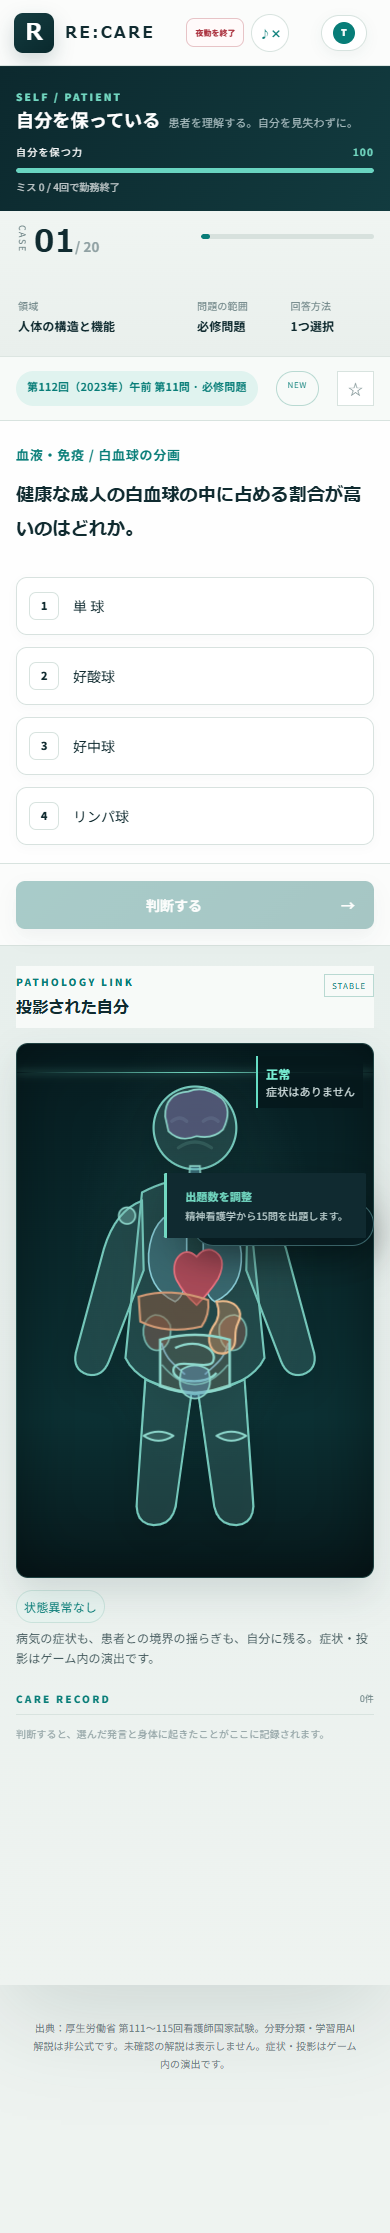
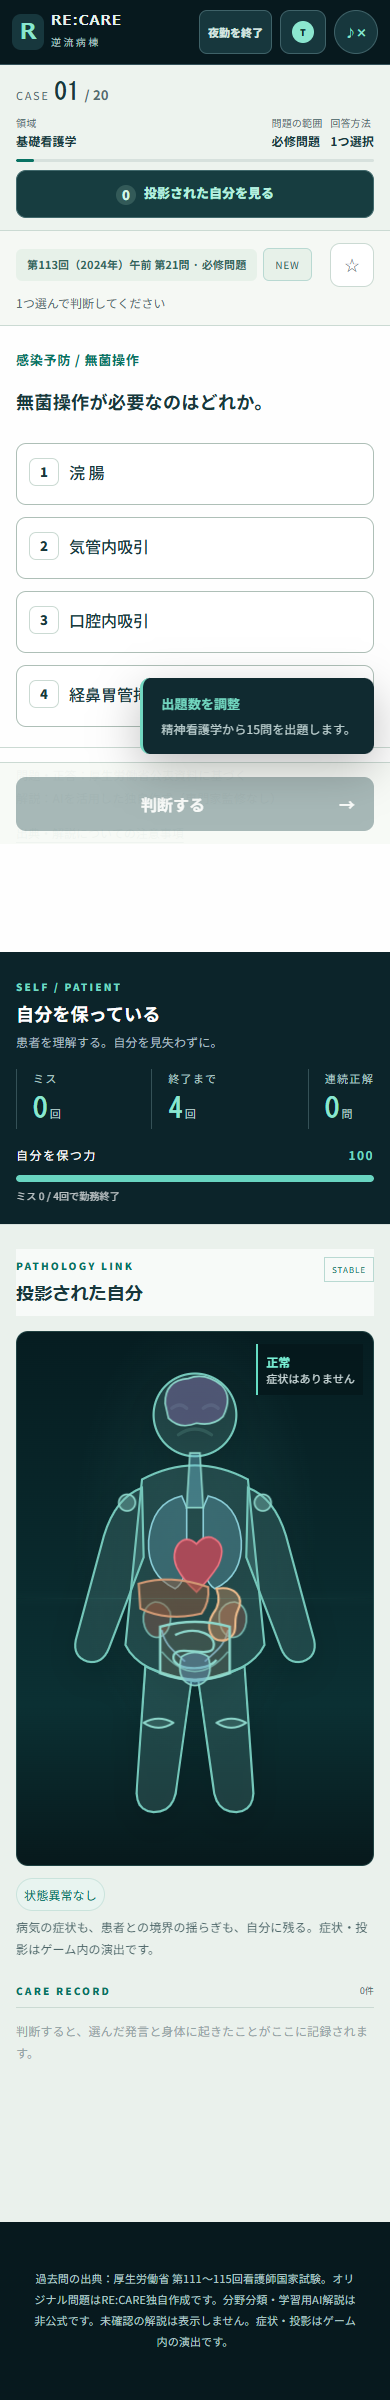
apd

diff --git a/ui-polish.css b/ui-polish.css
@@ -70,3 +70,61 @@ body:has(#titleScreen:not([hidden])) #anatomyJump,body:has(#authGate) #anatomyJu
 
 .case-context{margin:4px 0 24px;padding:18px 20px;border:1px solid #d6e4de;border-radius:12px;background:#f4f8f6}.case-context[hidden],.question-annotations[hidden]{display:none}.case-context section+section{margin-top:18px;padding-top:16px;border-top:1px solid #d6e4de}.case-context h2{font-size:12px;margin:0 0 8px;color:#16766d;letter-spacing:.05em}.case-context p{font-size:15px;font-weight:400;line-height:1.95;margin:0;white-space:pre-line;overflow-wrap:anywhere}.question-annotations{margin:12px 0 20px;font-size:12px;color:#53716c}.question-annotations summary{cursor:pointer;min-height:32px;line-height:2}.question-annotations p{line-height:1.8;overflow-wrap:anywhere}.question-body h1{white-space:pre-line}
 @media(max-width:760px){.case-context{padding:16px;margin-bottom:20px}.case-context p{font-size:14px}.question-body h1{font-size:18px}}
+
+/* v76: shared product tokens. Dark ward chrome with a quiet reading surface. */
+:root{--background:#07191e;--surface:#102c32;--text:#e6f2ee;--muted:#536c70;--accent:#8be6cf;--danger:#ae3044;--success:#087263;--ink:#19383c;--paper:#f2f6f3;--teal:#087263;--line:#cbdad3;--radius:14px;--radius-sm:10px;--shadow:0 16px 48px #0002;--ui-focus:#087263}
+html,body{background:var(--background)}body{font-size:15px;line-height:1.7}.noise{display:none}
+[hidden]{display:none!important}button{touch-action:manipulation;box-shadow:none;transition:background .18s,border-color .18s,transform .18s}button:disabled{cursor:not-allowed}a{ text-underline-offset:4px}button,input,select,textarea{font-family:inherit}p,h1,h2,h3,dd,summary{overflow-wrap:anywhere}
+:focus-visible{outline:3px solid var(--ui-focus);outline-offset:3px}input,select,textarea{font-size:16px!important;border-radius:10px}button,a,summary{scroll-margin-block:100px}
+.primary-btn,.secondary-btn,.battle-primary,.battle-quiet,.auth-submit{border-radius:10px;min-height:48px;font-size:14px}.primary-btn,.battle-primary{background:#123c40;color:#fff;box-shadow:none}.primary-btn:hover,.battle-primary:hover{background:#086b61}
+/* Title: logo and launch take priority; existing settings live in one disclosure. */
+.title-screen{min-height:100svh;background:radial-gradient(ellipse at 85% 25%,#163e43,transparent 55%),var(--background)!important}
+.title-top,.title-footer{width:min(1180px,100%);margin-inline:auto;color:#a6c0be;font-size:11px;line-height:1.8;letter-spacing:.06em;border-color:#345159}
+.title-content{max-width:1180px;gap:64px;padding:56px 0 44px;grid-template-columns:minmax(0,1.12fr) minmax(0,.88fr)}
+.title-copy h1{font-size:clamp(78px,9vw,124px);line-height:1;letter-spacing:-.065em;margin:20px 0 0;text-shadow:none}.title-copy h1 span{color:var(--accent)}
+.title-kicker{font-size:12px;letter-spacing:.1em;color:var(--accent)}.title-jp{font-size:21px;margin:10px 0 24px}.title-lead{font-size:15px;line-height:1.95;color:#b1c9c6}.welcome-user{font-size:12px;color:#b1c9c6}
+.title-actions{margin:20px 0;gap:10px}.start-btn{min-height:70px;background:var(--accent);border-radius:10px;color:#092d2a;font-size:18px;box-shadow:none;padding:16px 22px}.start-btn small{font-size:11px}.start-btn:hover{background:#aaf2df;box-shadow:0 4px 20px #8be6cf20}.how-btn,.title-ranking-btn{border-color:#3f6268;background:#102c32;backdrop-filter:none;color:#d4e6e0}
+.shift-setup{border:1px solid #3f6268;border-radius:14px;background:#0c242a;margin:24px 0 0;overflow:hidden}.shift-setup>summary{display:flex;align-items:center;justify-content:space-between;gap:12px;padding:16px 18px;min-height:68px;list-style:none;cursor:pointer}.shift-setup>summary::-webkit-details-marker{display:none}.shift-setup>summary:after{content:'＋';color:var(--accent);font-size:24px}.shift-setup[open]>summary:after{content:'−'}.shift-setup>summary b{display:block;font-size:14px;color:#e6f2ee}#setupSummary{display:block;font-size:12px;line-height:1.8;color:#b1c9c6;margin-top:2px}.shift-setup-content{padding:0 18px 18px;border-top:1px solid #3f6268}.setup-label{font-size:13px;color:#d4e6e0;margin:18px 0 8px}
+.question-source{border:0;padding:0;min-width:0}.question-source legend{font-size:13px;color:#d4e6e0}.question-source-options{grid-template-columns:repeat(2,minmax(0,1fr))}.question-source-options label{border-radius:10px;border-color:#3f6268;min-width:0}.question-source-options b{font-size:13px}.question-source-options small,#questionSourceNotice,.year-publication-note{font-size:12px;color:#b1c9c6;line-height:1.85}
+.premium-setup{margin:10px 0 16px;grid-template-columns:repeat(3,minmax(0,1fr))}.mode-card{min-height:100px;padding:14px 10px;background:#102c32;border-color:#3f6268;box-shadow:none;backdrop-filter:none}.mode-card b{font-size:13px}.mode-card small{font-size:12px;color:#b1c9c6}.mode-card em{display:block;font-size:11px;color:#b1c9c6;font-style:normal;margin-top:8px}.mode-card.active{border-color:var(--accent);background:#1b423e;box-shadow:inset 0 3px var(--accent)}.mode-card:hover{transform:none;box-shadow:none}.mode-card.active small{color:#e1f1eb}
+.category-picker{display:grid;grid-template-columns:90px minmax(0,1fr);padding:8px 0;margin:0;gap:12px;border:0;background:none;font-size:13px;letter-spacing:0;color:#b1c9c6}.category-picker select{max-width:none;width:100%;min-height:48px;border-color:#3f6268}
+.title-metric{min-width:0}.title-metric span{color:#b1c9c6;font-size:11px}.title-metric b{font-size:22px}.last-result{flex-wrap:wrap;gap:4px 12px;font-size:12px;color:#a6c0be}.last-result b{color:#b1c9c6}
+.title-support{padding:0}.title-support .title-visual{height:360px;filter:none}.title-body{height:295px;animation:none;filter:none}.orbit{animation:none}.orbit-a{width:300px;height:300px}.orbit-b{width:350px;height:210px}.title-diagnostic{font-size:10px;color:#b1c9c6;box-shadow:none;backdrop-filter:none}.title-body .title-heart{animation:titleHeartbeat 3s ease-in-out infinite}
+.title-grid{opacity:.06;background-size:64px 64px;pointer-events:none}.title-glow{width:520px;height:520px;filter:none;pointer-events:none;animation:ward-breathe 14s ease-in-out infinite}@keyframes ward-breathe{50%{transform:translate(-25px,20px);opacity:.3}}
+.daily-challenge,.battle-launch,.official-pdf-library{background:#102c32;border:1px solid #3f6268;border-radius:14px;box-shadow:none;margin:16px 0 0;padding:20px}.daily-challenge h2,.battle-launch h2{font-size:20px;color:#e6f2ee;margin:0 0 8px}.daily-challenge p,.battle-launch p{font-size:13px;color:#b1c9c6;line-height:1.85}.daily-challenge button,.battle-launch button{min-height:48px;border:1px solid #638b89;background:#193b40;color:#aaf2df;border-radius:10px;font-size:14px;padding:12px}.battle-kicker{font-size:11px}.official-pdf-library summary{font-size:14px;min-height:44px}.official-pdf-library summary span,.official-pdf-library p,.official-pdf-year h3{font-size:12px;color:#b1c9c6}.official-pdf-year a{min-height:44px;font-size:12px}.install-btn{position:relative;bottom:auto;right:auto;align-self:center;min-height:44px;margin:0 0 20px;font-size:12px}
+/* Game: a single reading column, case progress above, monitor alongside. */
+.app-shell{width:min(1320px,calc(100% - 40px));margin:20px auto;border:1px solid #3f6268;border-radius:16px;overflow:visible;box-shadow:none;background:#f2f6f3}.topbar{min-height:70px;height:auto;padding:12px 24px;gap:12px;background:var(--background);color:#e6f2ee;border-color:#345159;border-radius:16px 16px 0 0}.brand,.shift b{color:#e6f2ee}.brand small,.shift{color:#b1c9c6}.brand-mark{color:var(--accent);background:#17373d;box-shadow:none}.account-chip{min-height:44px;border-radius:10px;margin:0;background:#17373d;color:#e6f2ee;border-color:#3f6268;box-shadow:none}.account-chip small{color:var(--accent);font-size:10px}.account-chip i{background:var(--accent);color:#092d2a}.icon-btn{min-width:44px;min-height:44px;flex-shrink:0;background:#17373d;color:var(--accent);border-color:#3f6268}.end-shift-btn{min-height:44px;font-size:12px;background:#17373d;color:#d4e6e0;border-color:#3f6268;margin:0}.premium-player{margin:0 0 0 auto}.xp-copy b{color:#d4e6e0}.level-orb{background:#17373d;color:var(--accent)}
+.game-grid{display:grid;grid-template-columns:minmax(0,1fr) 320px;grid-template-rows:auto 1fr;min-height:0}.side-panel{grid-column:1;grid-row:1;display:flex;flex-wrap:wrap;align-items:center;gap:12px 16px;padding:16px 24px;border:0;border-bottom:1px solid var(--line);background:#edf3ee}.side-panel>.eyebrow,.side-panel .streak-card{display:none}.side-panel .case-number{gap:5px;margin:0}.case-number span{writing-mode:horizontal-tb;font-size:11px;margin:0}.case-number strong{font:700 26px/1.2 monospace}.case-number small{font-size:13px;color:var(--muted)}.side-panel>.progress-track{order:4;flex-basis:100%;height:3px;margin:0}.side-panel .case-meta{display:flex;flex:1;gap:14px;margin:0;min-width:0}.side-panel .case-meta div{padding:0;border:0;min-width:0}.case-meta dt{font-size:11px}.case-meta dd{font-size:12px;line-height:1.65}.side-panel .text-btn{min-height:44px;margin:0;font-size:12px;padding:8px}
+.question-panel{grid-column:1;grid-row:2;border-radius:0 0 0 16px;scroll-margin-top:12px}.question-head{background:#f5f8f4;padding:14px 24px;align-items:center}.source-badge,.mastery-tag{font-size:11px;border-radius:6px;color:#32665c;background:#e7f1e9}.instruction{font-size:12px;letter-spacing:0}.bookmark-btn{margin-left:auto;min-width:44px;min-height:44px;border-radius:10px}.question-body{padding:28px 32px 24px}.question-body h1{font:700 21px/1.95 'Noto Sans JP',sans-serif;letter-spacing:.02em;margin:0 0 26px}.question-body .lead{font-size:13px;line-height:1.85}.lead:empty{display:none}.case-context{border-left:3px solid #609a8d;background:#f1f6ef}.case-context p{font-size:16px;line-height:1.95}.case-context h2{font-size:13px}.question-annotations{font-size:13px}.question-annotations summary{min-height:44px}
+.choice,.battle-choice{align-items:flex-start;gap:12px;min-height:64px;padding:16px;border:1px solid #aebfb7;border-radius:10px;font:500 16px/1.85 'Noto Sans JP',sans-serif;box-shadow:none;transform:none}.choice>span:last-child,.battle-choice>span:last-child{min-width:0;flex:1;overflow-wrap:anywhere;white-space:pre-line}.choice-index{margin:0;width:30px;height:30px;font-size:13px;flex-shrink:0}.choice.selected{background:#e3f3eb;border-color:#087263;box-shadow:inset 3px 0 #087263}.choice.correct{background:#e1f4e8;border-color:#087263}.choice.wrong{background:#fff0f2;border-color:#ae3044}.choice:disabled{opacity:1}.choice:disabled:not(.correct):not(.wrong){color:#526961;background:#f2f5f1}.choice-state{display:block;font-size:12px;font-weight:700;color:#087263;margin-bottom:4px}.choice.wrong .choice-state{color:#ae3044}.choice.correct.wrong{background:#e1f4e8;border-color:#087263}.choice.correct.wrong .choice-state{color:#087263}.choice:hover,.choice:disabled:hover{transform:none;box-shadow:none}@media(hover:hover){.choice:not(:disabled):hover{border-color:#087263;background:#eef8f1}}
+.action-row{position:sticky;bottom:0;z-index:6;gap:12px;padding:16px 24px max(16px,env(safe-area-inset-bottom));border-top:1px solid var(--line);background:#f7faf6f5;border-radius:0 0 0 16px}.action-row .primary-btn{min-height:52px;min-width:180px;margin-left:auto}.action-row>span{font-size:11px}
+.feedback{grid-template-columns:32px minmax(0,1fr);gap:12px;padding:20px;margin:4px 24px 24px;box-shadow:none;scroll-margin-block:20px}.feedback-icon{width:32px;height:32px;box-shadow:none}.feedback h2{font-size:19px;line-height:1.65}.feedback p{font-size:15px;line-height:1.95}.feedback-label{font-size:11px!important}.consequence{font-size:13px;line-height:1.85;padding:12px;border-radius:8px}#choiceNotes{display:grid;gap:12px;padding-top:8px}#detailBox>summary{font-size:15px;min-height:48px}.choice-rationale,.choice-rationale:first-child,.choice-rationale:last-child{border:1px solid var(--line);border-radius:10px;padding:18px;background:#fff}.choice-rationale.is-correct{background:#edf7ee;border-color:#8ab6a1}.choice-rationale header{font-size:14px;align-items:flex-start}.choice-rationale header b{flex:1;min-width:0}.choice-rationale header i{flex-shrink:0}.choice-rationale header span{flex-basis:100%;font-size:12px;background:none;color:var(--muted)}.choice-rationale p{font-size:15px;line-height:2;margin:12px 0 0}.explanation-sources{font-size:12px;line-height:1.9}.learning-trust{padding:16px 24px;font-size:12px;line-height:1.9;color:var(--muted);border-top:1px solid var(--line)}.learning-trust p{margin:0}.trust-link,.report-link{min-height:44px;font-size:12px;cursor:pointer;background:none;border:0;color:#286c60;text-decoration:underline;text-underline-offset:4px;padding:8px 0;text-align:left}
+.status-strip{padding:18px 24px;gap:24px;background:#0c242a;box-shadow:none}.condition-line{flex-wrap:wrap;gap:4px 12px}.condition-line strong{font-size:18px}.condition-line span,.health-wrap>div:first-child{font-size:12px}.vitals{gap:20px}.vitals span,.vitals small{font-size:11px;color:#b1c9c6}.vitals strong{font:700 27px/1.5 monospace;color:var(--accent);font-variant-numeric:tabular-nums}.health-track{height:7px}.health-wrap small{font-size:11px}.self-panel{grid-column:2;grid-row:1/3;display:block;padding:24px 18px;background:#eaf1ec;border-left:1px solid var(--line);border-radius:0 0 16px 0}.self-heading h2{font-size:18px}.avatar-stage{box-shadow:none}.clinical-card p,.record-item p,.record-entry,.disease-episodes p{font-size:13px;line-height:1.85}.simulator-note,.empty-record,.record-item small,.record-item b{font-size:12px;line-height:1.85}.symptom-chips span{font-size:12px}
+#anatomyJump{position:static;display:none;min-height:48px;width:100%;margin:0;border-radius:10px;background:#173d40;color:#b4efdf;border:1px solid #41696c;padding:10px 14px;box-shadow:none;font-size:13px}
+/* Short feedback only: no full-screen effect over study content. */
+.damage-impact{display:none}.danger-flash,.status-strip.vital-alarm{animation:monitor-feedback .5s ease-out 1}.feedback.show{animation:answer-feedback .35s ease-out}@keyframes monitor-feedback{50%{opacity:.65}}@keyframes answer-feedback{from{opacity:.25;transform:translateY(6px)}to{opacity:1;transform:none}}.scan-line{animation:none;opacity:.15}.pulse-dot{animation:none}body:has(.feedback:not(.show)) .avatar-stage *{animation-play-state:paused!important}body:has(#titleScreen[hidden]) .title-glow{animation-play-state:paused}
+/* Dialogs and secondary activities use the same rounded reading surfaces. */
+.result-modal,.report-modal,.mypage{background:#020e13dc;backdrop-filter:none;overscroll-behavior:contain}.result-modal{padding:16px;overflow:auto;align-items:safe center}.result-card{width:min(640px,100%);padding:30px;max-height:calc(100dvh - 32px);overflow-y:auto;border-radius:16px}.result-card h2{font-size:26px;line-height:1.55}.result-card p{font-size:14px;line-height:1.9}.result-summary{display:grid;grid-template-columns:repeat(3,minmax(0,1fr));gap:8px;margin:20px 0}.result-summary div{background:#edf4ee;border:1px solid var(--line);border-radius:10px;padding:14px 6px}.result-summary span{display:block;font-size:11px;color:var(--muted)}.result-summary b{display:block;font-size:22px;color:#087263}.result-stats{font-size:13px}.result-actions{display:grid;grid-template-columns:1fr 1fr;gap:10px;margin-top:24px}.result-actions #retryButton{grid-column:1/-1;grid-row:1}.result-actions button{min-height:52px;font-size:14px}.analytics h3{font-size:14px}.analytic-row{font-size:12px;grid-template-columns:minmax(0,1fr) 80px 36px}.report-card h2{padding-right:34px}.report-card label{font-size:14px}.report-question,.report-note,.report-status{font-size:12px;line-height:1.85}.how-panel h3{font-size:16px}.usage-notice p{font-size:15px;line-height:2}.how-panel>p:last-child{font-size:13px;line-height:1.9}.how-panel{z-index:190}.mypage-nav button{font-size:14px}.category-summary h4{font-size:14px}.category-score{font-size:13px;grid-template-columns:minmax(0,1fr) 110px 40px;line-height:1.8}.history-entry b{font-size:14px;line-height:1.85}.history-entry small,.history-entry time,.history-toolbar span{font-size:12px;line-height:1.8}.ranking-tabs,.admin-tabs{flex-wrap:wrap;overflow:visible}.account-form label{font-size:14px}.danger-zone p{font-size:13px;line-height:1.9}.auth-lead{font-size:14px}.auth-card label{font-size:13px}.auth-note,.auth-message{font-size:12px;line-height:1.85}.auth-note{color:#b1c9c6}.pin-wrap{grid-template-columns:minmax(0,1fr) auto}.battle-screen{background:#edf3ee}.battle-question{font-size:21px;line-height:1.95}.battle-rules ul{font-size:14px;line-height:1.95}.battle-review article,.battle-history article{padding:16px;border:1px solid var(--line);background:white;border-radius:10px;margin-top:12px;font-size:15px;line-height:1.95}.battle-review summary{min-height:48px;font-size:15px}.battle-choice.is-correct>span:first-child:after{content:'○';color:#087263}.battle-choice.is-wrong>span:first-child:after{content:'×';color:#ae3044}.battle-choice.is-correct>span:first-child,.battle-choice.is-wrong>span:first-child{height:48px}.premium-toast,.network-toast{bottom:calc(90px + env(safe-area-inset-bottom));right:16px;max-width:calc(100vw - 32px);border-radius:10px;pointer-events:none}.premium-toast b{font-size:13px}.premium-toast span{font-size:12px}.legal-note{font-size:12px;color:#b1c9c6;line-height:1.9;margin:24px auto;padding-bottom:env(safe-area-inset-bottom)}
+@media(max-width:1100px){.title-content{gap:32px}.game-grid{grid-template-columns:minmax(0,1fr) 280px}.status-strip{gap:16px}.self-panel{padding:20px 14px}.question-body{padding:24px}.shift{display:none}.case-meta{flex-wrap:wrap}}
+@media(max-width:760px){
+ .title-screen{padding:0 max(16px,env(safe-area-inset-left))}.title-top{padding:12px 0}.title-content{padding:30px 0 28px}.title-copy h1{font-size:clamp(68px,19vw,100px);margin:16px 0 0}.title-kicker{font-size:10px;letter-spacing:.05em}.title-jp{font-size:18px;margin:10px 0 20px}.title-lead{font-size:14px;margin:12px 0}.title-support{display:block}.title-support .title-visual{display:none}.title-actions{margin:16px 0}.start-btn{min-height:66px;font-size:17px}.shift-setup{margin-top:20px}.shift-setup-content{padding:0 12px 14px}.shift-setup>summary{padding:14px}.mode-card{padding:12px 7px}.mode-card b,.mode-card small{font-size:11px}.category-picker{grid-template-columns:1fr;gap:4px}.title-metric b{font-size:20px}.title-metric span{font-size:10px}.daily-challenge,.battle-launch,.official-pdf-library{padding:18px}.title-footer{padding:20px 0}
+ .app-shell{width:100%;margin:0;border:0;border-radius:0;display:flex;flex-direction:column;min-height:100dvh}.app-shell.game-hidden{display:none}.topbar{padding:10px 12px;min-height:64px;gap:8px;flex-wrap:wrap;border-radius:0;order:0}.brand{gap:7px}.brand-mark{width:32px;height:36px;font-size:22px}.brand strong{font-size:14px;letter-spacing:.06em}.brand small{font-size:10px}.end-shift-btn{font-size:11px;padding:8px;margin-left:auto}.account-chip{order:4;min-width:44px;justify-content:center}.account-chip span,.account-chip small{display:none}.icon-btn{order:5}.premium-player,.shift{display:none}
+ .game-grid{display:contents}.side-panel{order:1;padding:12px 16px;gap:8px 14px}.side-panel .case-meta{flex-basis:100%;order:3;gap:8px;width:100%}.side-panel .case-meta div:first-child{flex:1}.side-panel .case-meta div{padding:0}.case-meta dt{font-size:10px;margin:0}.case-meta dd{font-size:12px}.side-panel .text-btn{margin-left:auto;font-size:11px}.side-panel>.progress-track{order:4}.case-number strong{font-size:24px}
+ .question-panel{order:2;border-radius:0}.question-head{padding:12px 16px;gap:6px}.question-head .instruction{flex-basis:100%;order:4;font-size:12px}.source-badge{max-width:calc(100% - 54px);font-size:11px}.mastery-tag{font-size:10px}.question-panel.mastered:before{display:none}.question-body{padding:22px 16px 20px}.question-body h1{font-size:18px;line-height:1.95;margin-bottom:24px}.case-context p{font-size:16px}.choice,.battle-choice{font-size:16px;line-height:1.85;min-height:62px;padding:14px 12px;gap:10px}.choice-index{width:28px;height:28px}.action-row{padding:12px 16px max(12px,env(safe-area-inset-bottom));border-radius:0}.action-row>span{display:none}.action-row .primary-btn{width:100%;min-width:0;margin:0;min-height:54px;font-size:16px}.feedback{grid-template-columns:minmax(0,1fr);margin:0 12px 20px;padding:16px;gap:8px}.feedback-icon{width:28px;height:28px}.feedback h2{font-size:18px}.choice-rationale{padding:14px}.learning-trust{padding:16px}
+ .status-strip{order:3;grid-template-columns:1fr;padding:20px 16px;gap:16px}.self-panel{order:4;border-radius:0;padding:24px 16px;border-left:0}.vitals{gap:12px;justify-content:space-between}.vitals strong{font-size:28px}#anatomyJump{display:block;flex-basis:100%;order:5}
+ .result-card{padding:24px 18px}.result-card h2{font-size:24px}.result-actions{grid-template-columns:1fr}.result-actions #retryButton{grid-column:1;grid-row:1}.result-actions #reviewButton{grid-row:2}.result-actions #resultHomeButton{grid-row:3}.analytic-row{grid-template-columns:minmax(0,1fr) 60px 36px}.category-score{grid-template-columns:minmax(0,1fr) 40px;gap:5px 10px}.category-score>span{grid-column:1/-1}.ranking-row{grid-template-columns:28px minmax(0,1fr) 48px 48px;gap:6px;padding:12px 8px}.ranking-name{font-size:12px}.mypage-nav{flex-wrap:wrap;overflow:visible}.mypage-nav button{font-size:12px}.mypage-main{padding-bottom:max(24px,env(safe-area-inset-bottom))}.battle-screen{padding:max(16px,env(safe-area-inset-top)) 16px max(24px,env(safe-area-inset-bottom))}.battle-question{font-size:18px}.battle-choice{font-size:16px}.battle-round{gap:8px;font-size:13px}.battle-review{padding:16px}.legal-note{padding-bottom:max(24px,env(safe-area-inset-bottom));font-size:11px}
+}
+@media(prefers-reduced-motion:reduce){*,*::before,*::after{animation:none!important;transition:none!important;scroll-behavior:auto!important}}
+/* Final interaction safeguards. */
+html{scroll-behavior:auto}body{padding-bottom:0}.topbar,.action-row,#anatomyJump{backdrop-filter:none}.topbar{position:relative;top:auto}
+body.critical .app-shell,body.blur .question-body{animation:none!important}body.hypoxia .question-panel{filter:none}
+.choice:after{display:none}.mobile-anatomy-jump.has-symptom{animation:none}#anatomyJump b{display:inline-grid;margin-right:8px;background:#335a58;color:#d4f4e7;vertical-align:middle}
+body:has(#resultModal:not([hidden])) .premium-toast{display:none}
+.title-screen :focus-visible,.auth-gate :focus-visible,.topbar :focus-visible{outline-color:#b6f8e7}
+.choice:focus-visible,.primary-btn:focus-visible{outline:3px solid #087263;outline-offset:3px}
+@media(max-width:760px){.brand small{display:block}.action-row{scroll-margin-block:0}.title-content{padding-top:24px}}
+@media(max-width:760px){.status-strip .vitals{display:flex}.question-head .instruction{display:block}.result-summary span{font-size:11px;letter-spacing:0}}
+.choice-rationale p{color:#314f50}.choice-rationale header{color:#19383c}.feedback p{color:#314f50}.feedback .feedback-label{color:#a02d40}.feedback.correct-feedback .feedback-label{color:#087263}.empty-record{color:#5d7375}.avatar-callout span{max-width:120px}.question-head .instruction{color:#536c70}.result-card.death #resultEyebrow{color:#715282}
+@media(min-width:761px){.action-row{position:static}}
+/* Keep an unavailable action out of the reading viewport; pin only actionable controls. */
+.action-row{background:#f7faf6}.action-row:has(#submitButton:not([hidden]):disabled){position:static}

diff --git a/ui-polish.js b/ui-polish.js
@@ -33,3 +33,109 @@
     });
   }
 })();
+
+// Presentation-only improvements. Existing controls keep their original handlers.
+(()=>{
+  const title=document.querySelector('.title-copy');
+  const setup=document.createElement('details');
+  setup.id='shiftSetup';setup.className='shift-setup';
+  setup.innerHTML='<summary><span><b>夜勤の設定</b><span id="setupSummary"></span></span></summary><div class="shift-setup-content"></div>';
+  const setupContent=setup.querySelector('.shift-setup-content');
+  const source=document.querySelector('.question-source');source.before(setup);
+  const modes=document.querySelector('.premium-setup');
+  const lengthLabel=document.createElement('p');lengthLabel.className='setup-label';lengthLabel.textContent='出題数を選ぶ';
+  for(const node of [source,document.querySelector('#examYear').closest('label'),lengthLabel,modes,document.querySelector('#premiumCategory').closest('label'),document.querySelector('#yearPublicationNote')])setupContent.append(node);
+  const summaries={10:['QUICK','すきま時間に'],20:['STANDARD','毎日の演習に'],30:['SURVIVAL','じっくり挑戦']};
+  document.querySelectorAll('.mode-card[data-length]').forEach(button=>{
+    const hint=document.createElement('em');hint.textContent=summaries[button.dataset.length][1];button.append(hint);
+  });
+  const updateSetup=()=>{
+    const sourceName=document.querySelector('input[name="questionSource"]:checked')?.value==='past'?'過去問':'オリジナル';
+    const category=document.querySelector('#premiumCategory');
+    document.querySelector('#setupSummary').textContent=`${sourceName} · ${document.querySelector('.mode-card.active')?.dataset.length||20}問 · ${category.selectedOptions[0]?.textContent||'すべての分野'}`;
+  };
+  setup.addEventListener('change',updateSetup);modes.addEventListener('click',updateSetup);updateSetup();
+  title.append(document.querySelector('.title-metrics'),document.querySelector('#lastResult'));
+  // Secondary modes remain available after the primary launch controls.
+  const support=document.querySelector('.title-support');
+  if(support) support.insertBefore(document.querySelector('.battle-launch'),support.querySelector('.official-pdf-library'));
+  const how=document.querySelector('#howPanel');document.body.append(how);
+  const trust=document.createElement('aside');trust.className='learning-trust';
+  trust.innerHTML='<p id="questionTrust"></p><p>解説：AIを活用した独自作成（専門家監修なし）</p><button type="button" class="trust-link">出典・解説についての注意事項</button>';
+  document.querySelector('.action-row').before(trust);
+  trust.querySelector('button').onclick=()=>{how.hidden=false};
+  document.querySelector('.side-panel').append(document.querySelector('#anatomyJump'));
+  document.querySelector('#bookmarkButton').setAttribute('aria-label','この問題を復習用に保存');
+  el.question.setAttribute('tabindex','-1');el.feedback.setAttribute('tabindex','-1');
+  const oldRender=render;
+  render=function(){
+    oldRender();
+    const q=QUESTION_BANK[state.index];
+    document.querySelector('.instruction').textContent=`${q.acceptedAnswerSets[0].length}つ選んで判断してください`;
+    document.querySelector('#questionTrust').textContent=fullBank.some(item=>item.id===q.id)?'問題・正答：厚生労働省公表資料に基づく':'問題・正答：RE:CARE独自作成のオリジナル問題';
+    [...el.choices.children].forEach(button=>button.setAttribute('aria-pressed','false'));
+    document.querySelector('#bookmarkButton').setAttribute('aria-pressed',String(document.querySelector('#bookmarkButton').classList.contains('saved')));
+    document.querySelector('.health-track').setAttribute('role','meter');
+    document.querySelector('.health-track').setAttribute('aria-label','自分を保つ力');
+    document.querySelector('.health-track').setAttribute('aria-valuemin','0');
+    document.querySelector('.health-track').setAttribute('aria-valuemax','100');
+    document.querySelector('.health-track').setAttribute('aria-valuenow',String(state.health));
+  };
+  const oldSubmit=submit;
+  submit=function(){
+    const already=state.answered;oldSubmit();if(already||!state.answered)return;
+    const q=QUESTION_BANK[state.index];
+    [...el.choices.children].forEach((button,index)=>{
+      const label=document.createElement('small');label.className='choice-state';
+      const selected=selectionIndices(state.selected).includes(index);
+      label.textContent=(isCorrectOption(q,index)?'○ 正答':'× 正答ではありません')+(selected?' · あなたの回答':'');
+      button.lastElementChild.prepend(label);
+    });
+    document.querySelector('.health-track').setAttribute('aria-valuenow',String(state.health));
+  };el.submit.onclick=submit;
+  // Native buttons handle Enter themselves; do not also run the global shortcut.
+  document.addEventListener('keydown',event=>{
+    if(event.key==='Enter'&&event.target.closest('button,summary,a[href]'))event.stopImmediatePropagation();
+  },true);
+  document.querySelector('#nextButton').addEventListener('click',()=>{if(!state.answered&&el.modal.hidden)el.question.focus({preventScroll:true})});
+  const bookmark=document.querySelector('#bookmarkButton');bookmark.addEventListener('click',()=>bookmark.setAttribute('aria-pressed',String(bookmark.classList.contains('saved'))));
+  const summary=document.createElement('div');summary.className='result-summary';
+  summary.innerHTML='<div><span>正答率（回答済み）</span><b id="resultAccuracy"></b></div><div><span>最大連続正解</span><b id="resultStreak"></b></div><div><span>回答済み</span><b id="resultAnswered"></b></div>';
+  document.querySelector('.result-stats').before(summary);
+  const result=document.querySelector('#resultModal');
+  new MutationObserver(()=>{
+    if(result.hidden)return;
+    let streak=0,best=0;for(const record of [...state.records].reverse()){streak=record.ok?streak+1:0;best=Math.max(best,streak)}
+    document.querySelector('#resultAccuracy').textContent=state.records.length?`${Math.round(state.score/state.records.length*100)}%`:'—';
+    document.querySelector('#resultStreak').textContent=`${best}問`;
+    document.querySelector('#resultAnswered').textContent=`${state.records.length}問`;
+    // Also refresh the existing analysis surface on an early-ended shift.
+    let analytics=document.querySelector('.analytics');
+    if(!analytics){analytics=document.createElement('section');analytics.className='analytics';document.querySelector('.result-actions').before(analytics)}
+    const heading=document.createElement('h3');heading.textContent='領域別パフォーマンス';analytics.replaceChildren(heading);
+    const categories=new Map();
+    for(const record of state.records){const category=QUESTION_BANK[record.caseNo-1]?.category;if(!category)continue;const row=categories.get(category)||{correct:0,total:0};row.total++;if(record.ok)row.correct++;categories.set(category,row)}
+    for(const [category,value] of [...categories].sort((a,b)=>a[1].correct/a[1].total-b[1].correct/b[1].total)){
+      const row=document.createElement('div');row.className='analytic-row';const name=document.createElement('span');name.textContent=category;
+      const bar=document.createElement('div');bar.className='analytic-bar';bar.setAttribute('aria-hidden','true');const fill=document.createElement('i');const percent=Math.round(value.correct/value.total*100);fill.style.width=percent+'%';bar.append(fill);
+      const rate=document.createElement('b');rate.textContent=percent+'%';rate.title=`${value.correct} / ${value.total}問正解`;row.append(name,bar,rate);analytics.append(row);
+    }
+  }).observe(result,{attributes:true,attributeFilter:['hidden']});
+  // Extend existing focus containment to results and the battle surface.
+  for(const [id,label,firstId] of [['resultModal','夜勤の結果','retryButton'],['battleScreen','友達と対戦','battleClose']]){
+    const panel=document.getElementById(id);if(!panel)continue;
+    panel.setAttribute('role','dialog');panel.setAttribute('aria-modal','true');panel.setAttribute('aria-label',label);panel.tabIndex=-1;
+    let opener=null;
+    new MutationObserver(()=>{if(!panel.hidden){opener=document.activeElement;(panel.querySelector('#'+firstId)||panel.querySelector('button')||panel).focus({preventScroll:true})}else if(opener?.isConnected&&opener.getClientRects().length)opener.focus({preventScroll:true})}).observe(panel,{attributes:true,attributeFilter:['hidden']});
+    panel.addEventListener('keydown',event=>{
+      if(event.key==='Tab'){
+        const items=[...panel.querySelectorAll('button,a[href],input,select,textarea,summary')].filter(e=>!e.disabled&&e.getClientRects().length);
+        if(!items.length){event.preventDefault();panel.focus()}
+        else if(event.shiftKey&&document.activeElement===items[0]){event.preventDefault();items.at(-1).focus()}
+        else if(!event.shiftKey&&document.activeElement===items.at(-1)){event.preventDefault();items[0].focus()}
+      }
+      event.stopPropagation();
+    });
+  }
+  render();
+})();

diff --git a/polish.js b/polish.js
@@ -4,7 +4,8 @@ function syncUI(state){let chip=$("#syncState");if(!chip)return;chip.className=`
 function notice(text){document.querySelector(".network-toast")?.remove();let n=document.createElement("div");n.className="network-toast";n.textContent=text;document.body.appendChild(n);setTimeout(()=>n.remove(),3000)}
 function inject(){el.feedback.setAttribute("aria-live","polite");el.avatarStage.setAttribute("tabindex","-1");let account=document.querySelector(".account-chip");if(account){account.insertAdjacentHTML("beforeend",`<span class="sync-state" id="syncState">${window.RECARE_CLOUD?.enabled()?"接続済み":"端末保存"}</span>`);syncUI(navigator.onLine?(window.RECARE_CLOUD?.enabled()?"saved":"local"):"offline")}document.body.insertAdjacentHTML("beforeend",`<button class="mobile-anatomy-jump" id="anatomyJump" type="button"><b id="anatomyCount">0</b>投影された自分を見る</button>`);$("#anatomyJump").onclick=()=>{el.avatarStage.scrollIntoView({behavior:"smooth",block:"center"});setTimeout(()=>el.avatarStage.focus({preventScroll:true}),450)}}
 const oldAvatar=avatar;avatar=function(effect){oldAvatar(effect);let count=state.review.length,jump=$("#anatomyJump");if(jump){$("#anatomyCount").textContent=count;jump.classList.toggle("has-symptom",count>0);jump.setAttribute("aria-label",`投影された自分を見る。ミス${count}回`)}};
-const oldSubmit=submit;submit=function(){if(state.answered||!canSubmitAnswer(QUESTION_BANK[state.index],state.selected))return;let selected=state.selected,q=QUESTION_BANK[state.index];oldSubmit();if(selected===null)return;announce(state.answered?`${isCorrectAnswer(q,selected)?"正解":"不正解"}。${q.explanation}`:"");setTimeout(()=>el.next.hidden?null:el.next.focus(),250)};el.submit.onclick=submit;
+const oldSubmit=submit;submit=function(){if(state.answered||!canSubmitAnswer(QUESTION_BANK[state.index],state.selected))return;let selected=state.selected,q=QUESTION_BANK[state.index];oldSubmit();if(selected===null)return;announce(state.answered?`${isCorrectAnswer(q,selected)?"正解":"不正解"}。${q.explanation}`:"");setTimeout(()=>{if(state.answered&&el.modal.hidden){el.feedback.focus({preventScroll:true});el.feedback.scrollIntoView({block:"start",behavior:"instant"})}},50)};el.submit.onclick=submit;
 window.addEventListener("recare-cloud-status",e=>{syncUI(e.detail);if(e.detail==="error")notice("同期できませんでした。記録は端末に保持しています。")});window.addEventListener("offline",()=>{syncUI("offline");notice("オフラインです。記録は接続後に同期されます。")});window.addEventListener("online",()=>{syncUI(window.RECARE_CLOUD?.enabled()?"saved":"local");notice("オンラインに復帰しました。")});
 inject();avatar(null);
 })();
+

diff --git a/index.html b/index.html
@@ -2,7 +2,7 @@
 <html lang="ja">
 <head>
   <meta charset="UTF-8">
-  <meta name="viewport" content="width=device-width, initial-scale=1.0">
+  <meta name="viewport" content="width=device-width, initial-scale=1.0, viewport-fit=cover">
   <meta name="description" content="判断ミスが自分の症状として返ってくる、看護師国家試験対策ゲーム">
   <meta name="theme-color" content="#071b20">
   <link rel="manifest" href="manifest.webmanifest">
@@ -23,8 +23,8 @@
   <link rel="stylesheet" href="luxury-ui.css">
   <link rel="stylesheet" href="question-source.css?v=72">
   <link rel="stylesheet" href="projection.css">
-  <link rel="stylesheet" href="ui-polish.css?v=74">
   <link rel="stylesheet" href="battle.css?v=75">
+  <link rel="stylesheet" href="ui-polish.css?v=76">
 </head>
 <body>
   <div class="noise"></div>
@@ -36,7 +36,7 @@
         <p class="title-kicker"><i></i> NURSING EXAM × SURVIVAL</p>
         <h1><span>RE:</span>CARE</h1><p class="title-jp">逆流病棟</p>
         <p class="title-lead">患者の状況を、自分に投影してしまう看護師。<br>正しい判断で、自分を見失わずに夜勤を終えろ。</p>
-        <div class="title-actions"><button class="start-btn" id="startGame"><small>NEW SHIFT</small>夜勤を開始する <b>→</b></button><button class="how-btn" id="howButton">遊び方・ご利用上の注意</button></div>
+        <div class="title-actions"><button class="start-btn" id="startGame"><small>START / NEW SHIFT</small>夜勤を開始する <b>→</b></button><button class="how-btn" id="howButton">遊び方・ご利用上の注意</button></div>
         <div class="last-result" id="lastResult"><span>LAST RECORD</span><b>記録なし</b></div>
       </div>
       <div class="title-visual">
@@ -211,13 +211,14 @@
   <script src="cloud-sync.js?v=69"></script>
   <script src="auth.js"></script>
   <script src="premium.js?v=72"></script>
-  <script src="polish.js"></script>
+  <script src="polish.js?v=76"></script>
   <script src="mypage.js?v=72"></script>
   <script src="admin-play.js?v=72"></script>
   <script src="shift-navigation.js"></script>
   <script src="challenge-modes.js"></script>
   <script src="question-source.js?v=74"></script>
-  <script src="ui-polish.js"></script>
   <script src="battle.js?v=75"></script>
+  <script src="ui-polish.js?v=76"></script>
 </body>
 </html>
+

diff --git a/sw.js b/sw.js
@@ -1,2 +1,3 @@
-const CACHE="recare-v75-four-player";const ASSETS=["./original-questions.js?v=74","./battle.css?v=75","./battle.js?v=75","./question-presentations.js","./question-presentation.js","./ui-polish.css?v=74","./ui-polish.js","./","./index.html","./style.css","./title-fix.css","./premium.css","./avatar-upgrade.css","./cinematic.css","./anatomy.css?v=74","./auth.css","./polish.css","./mypage.css?v=72","./luxury-ui.css","./official-questions.js","./official-bank.js","./question-source.js?v=74","./question-source.css?v=72","./explanations.js","./additional-explanations.js","./explanation-bank.js","./disease-simulator.js","./projection.js","./projection.css","./app.js?v=71","./improvements.js?v=72","./cloud-config.js","./cloud-sync.js?v=69","./auth.js","./premium.js?v=72","./polish.js","./mypage.js?v=72","./admin-play.js?v=72","./shift-navigation.js","./challenge-modes.js","./config.js","./icon.svg"];
+const CACHE="recare-v76-reading-ui";const ASSETS=["./original-questions.js?v=74","./battle.css?v=75","./battle.js?v=75","./question-presentations.js","./question-presentation.js","./ui-polish.css?v=76","./ui-polish.js?v=76","./","./index.html","./style.css","./title-fix.css","./premium.css","./avatar-upgrade.css","./cinematic.css","./anatomy.css?v=74","./auth.css","./polish.css","./mypage.css?v=72","./luxury-ui.css","./official-questions.js","./official-bank.js","./question-source.js?v=74","./question-source.css?v=72","./explanations.js","./additional-explanations.js","./explanation-bank.js","./disease-simulator.js","./projection.js","./projection.css","./app.js?v=71","./improvements.js?v=72","./cloud-config.js","./cloud-sync.js?v=69","./auth.js","./premium.js?v=72","./polish.js?v=76","./mypage.js?v=72","./admin-play.js?v=72","./shift-navigation.js","./challenge-modes.js","./config.js","./icon.svg"];
 self.addEventListener("install",e=>e.waitUntil(caches.open(CACHE).then(c=>c.addAll(ASSETS)).then(()=>self.skipWaiting())));self.addEventListener("activate",e=>e.waitUntil(caches.keys().then(keys=>Promise.all(keys.filter(k=>k.startsWith("recare-")&&k!==CACHE).map(k=>caches.delete(k)))).then(()=>self.clients.claim())));self.addEventListener("fetch",e=>{if(e.request.method!=="GET")return;e.respondWith(fetch(e.request).then(r=>{let copy=r.clone();caches.open(CACHE).then(c=>c.put(e.request,copy));return r}).catch(()=>caches.match(e.request))) });
+

diff --git a/UI_REVIEW.md b/UI_REVIEW.md
@@ -1,0 +1,64 @@
+# RE:CARE UI/UX 改修メモ — 2026-09-10
+
+## 調査した既存機能
+
+- タイトル、10 / 20 / 30問の夜勤、出題年度・分野の設定
+- 公式過去問1,125問、オリジナル900問、必修問題、今日の1問
+- 単一・複数選択、複数の許容正答、ミス上限、身体への投影、ECG・臓器表示
+- 選択肢別解説、原資料表記、公式PDF、問題報告、ブックマーク
+- 正常終了・途中終了・間違いの復習、成績、領域別集計、XP、履歴、ランキング
+- アカウント登録・ログイン、Supabase同期、2〜4人対戦、対戦履歴と再接続
+- Service Workerとオフライン用のリソース一覧
+
+## 見つかった課題とデザイン方針
+
+タイトルに設定・記録・サブモードが積み重なっていたため、設定を開閉できる1か所に整理。RE:CAREと夜勤開始を主役とし、今日の1問・対戦・PDFを同じ形のサブカードに統一した。
+
+暗い病棟と医療モニターは維持。本文を読む面は淡いグレーグリーンに統一し、暗い背景・ミントの操作色・明るい読書面を使い分けた。共通色、角丸、境界線、フォーカスは ui-polish.css のCSS変数から変更できる。新しい画像・動画・外部ライブラリは追加していない。
+
+## 主な変更
+
+- 既存の設定要素を移動し、イベント・ID・選択値を維持。10 / 20 / 30問それぞれに用途を表示。
+- スマホでは問題・選択肢を先に、状態の詳細を後に配置。身体表示への移動ボタンは通常レイアウト内に置いた。
+- PCでは進行状況を細い横長の領域にまとめ、問題に広い幅を確保。
+- 16pxの選択肢本文、十分なタップ領域、長い文の折り返し、回答数に応じた説明文。
+- 回答後の選択肢に「○ 正答」「× 正答ではありません」「あなたの回答」を付加。色だけに依存しない。
+- 回答後は解説先頭へ移動。選択肢別解説を間隔のあるカードに分割。
+- 出典・AI解説の性質を控えめに常設し、注意事項ダイアログへ接続。オリジナル出題時は公式問題と誤認させない表記。
+- リザルトに回答済み問題の正答率・最大連続正解・回答数を表示。既存の領域集計は途中終了時も今回の記録で更新し、低い正答率の分野から並べる。
+- 再挑戦・間違いの復習を優先した結果画面。結果画面にXP通知が重なることを防止。
+- Enterによるボタンの二重実行を抑止。結果・対戦画面にもフォーカスの閉じ込めを適用。
+- 下部操作のsafe-area、入力16px、フォーカス表示、prefers-reduced-motionに対応。
+- 背景は軽量なCSSの呼吸表現。回答の発光は短くし、問題本文のぼかしと全画面の遮蔽演出を抑止。
+- 更新したUIファイルをService Workerのリソース一覧に反映。
+
+## 変更範囲
+
+本体：index.html / ui-polish.css / ui-polish.js / polish.js / sw.js。
+
+問題文・公式正答・AI解説・分類データ・問題ID・URL・採点ルール・ミス上限・保存形式・認証／Supabase処理・対戦処理は変更していない。数値の追加表示は既存の回答記録から算出する。
+
+CSSは既存の機能ごとのファイルを維持し、共通の仕上げ層を最後に読み込む構成。既存テストのうち設定を直接操作していたものは、設定パネルを開いてから操作するよう追従した。
+
+## 確認
+
+ブラウザ：Windows上のEdge / Chromium。実機端末ではなくビューポートによる検証。
+
+- 320 / 375 / 390 / 430 / 768 / 1440px
+- タイトル → 設定 → 開始 → 正解 → 解説 → 不正解 → 次問 → リザルト → 間違いだけ復習
+- 注意事項・報告画面・成績・履歴・ランキング・アカウント・対戦入口
+- 長い問題文・選択肢、Enter操作、動きを減らす設定、320pxの認証画面
+- JavaScriptエラーとページ全体の横スクロールなし
+- 既存公式問題テスト：1,125問、複数選択、必修出題、履歴
+- 既存オリジナル問題テスト：900問、3,600解説、9分野、全問の正誤判定、216身体演出
+- 既存認証テスト：登録とログインの区別、PIN確認、重複登録防止、プロフィール
+- 既存対戦E2E：ローカルDB＋2ブラウザで10問、結果、解説、回答前後の再接続
+- 参照監査：実行用40ファイルすべて参照あり。ローカル参照・キャッシュ対象の欠落なし。明確に未使用の配布アセットは見つからず、削除していない。
+
+テスト結果：tmp/ui-v76/verification.txt
+
+確認画像：tmp/ui-v76/title-390.png、title-1440.png、settings-390.png、question-390.png、question-1440.png、explanation-390.png、result-390.png、result-1440.png、mypage-390.png、battle-390.png、auth-320.png。
+
+新しい検証：scripts/test_ui_refresh.cjs / scripts/test_ui_assets.cjs。
+
+この検証はローカル環境・テスト用プロフィール／DBで実行。公開環境へのデプロイ、実ユーザーデータの変更は行っていない。
